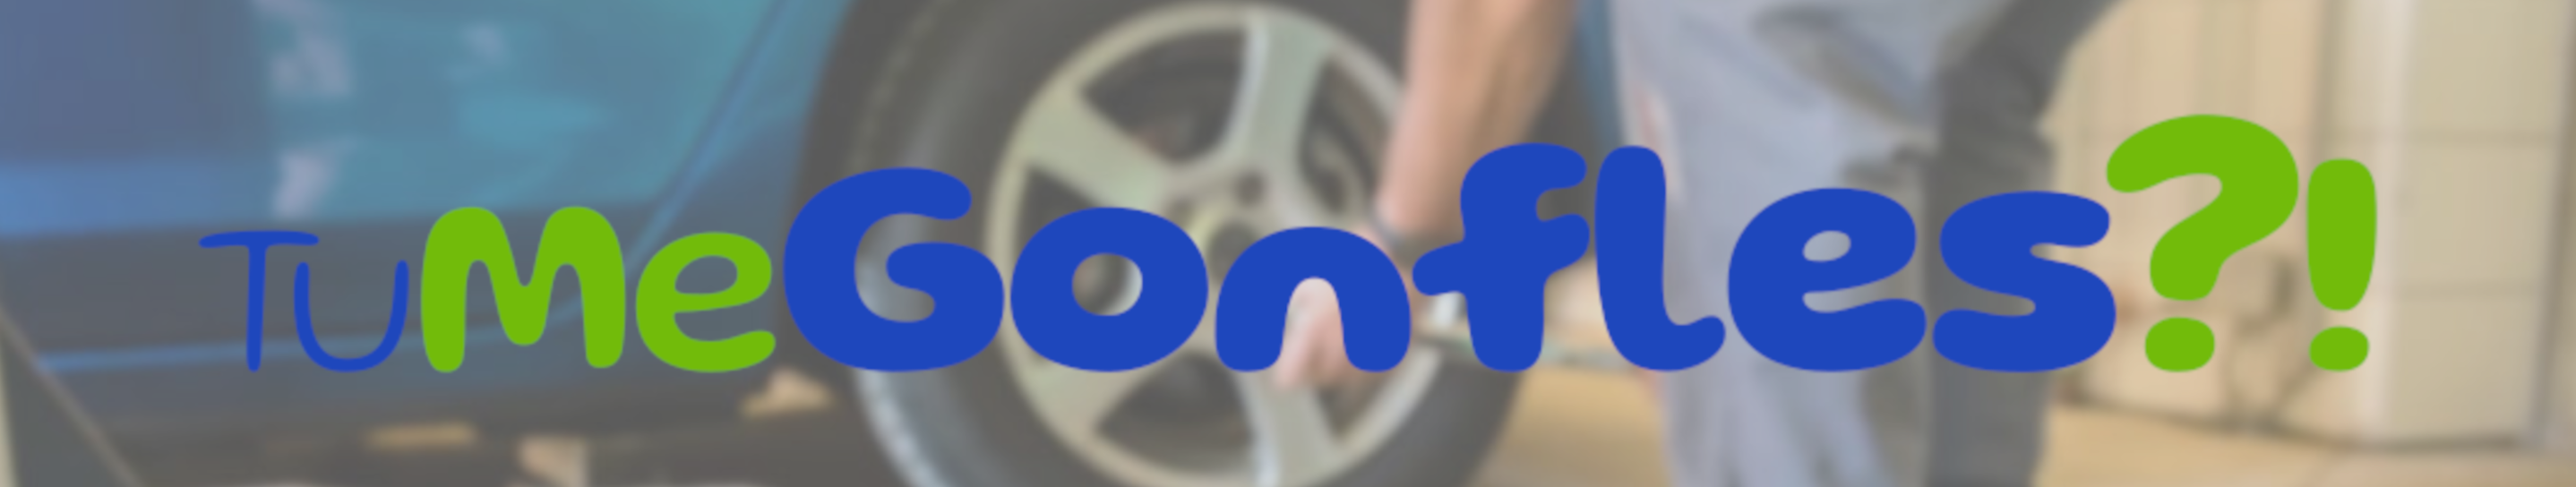
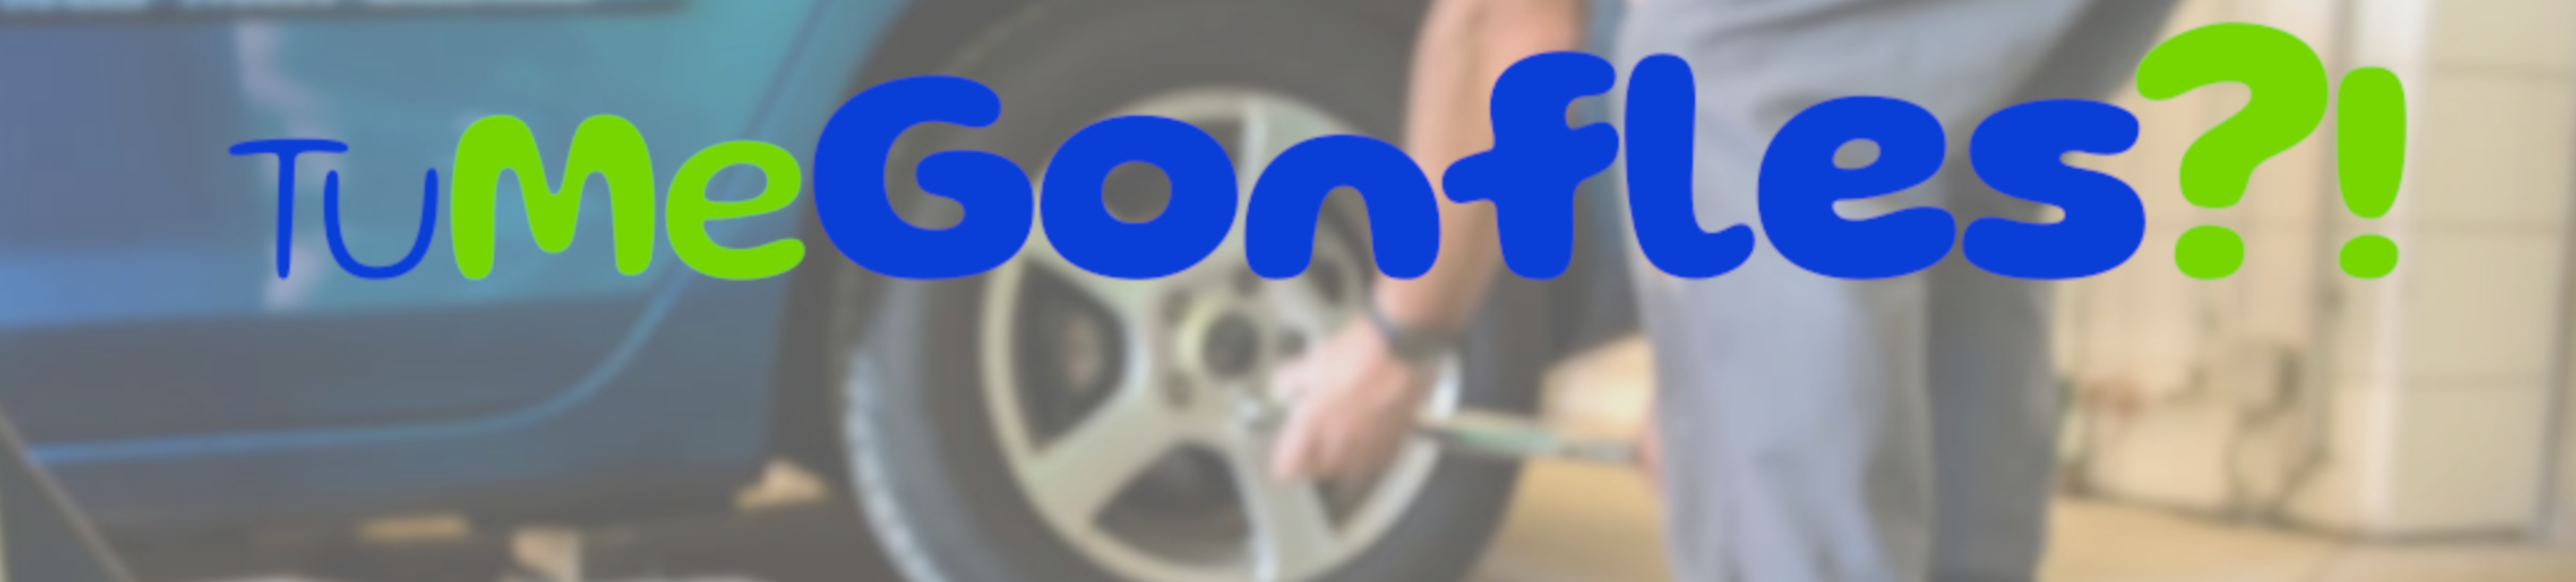
modif ban1, registerentreprise.blade et welcome.blade

diff --git a/resources/views/welcome.blade.php b/resources/views/welcome.blade.php
@@ -5,14 +5,17 @@
 
 @section('content')
 
+
 <img class="banniere" src="images/ban1.png"></img>
+<h5 class="accroch">Ne vous préoccupez plus de vos pneus, TuMeGonfles est là pour vous !</h5>
+<div style="text-align:center"><a href=""><button  type="button" class="button">Entreprises, inscrivez-vous !</button></a></div>
 <div class="container">
 
 </div>
 <br>
 
 <div class="main">
-    <h5 class="accroch">Ne vous préoccupez plus de vos pneus, TuMeGonfles est là pour vous !</h5>
+ 
 
 
 
@@ -30,8 +33,8 @@
             <h4 class="til">Pourquoi TuMeGonfles ?</h4>
             <p class="para">TuMeGonfles?! est un prestataire de service pour entreprise, celle-ci permet de faire une vérification rapide de l’état des pneus et des balais essuie-glaces des véhicules de vos employés. Et permet à vos employés de faire des économies ! </p>
             <div class="d-grid gap-2 d-md-flex justify-content-md-center">
-                <a href="commentfonctionne"><button id="btn1" type="button" class="container btn text-nowrap ">Comment fonctionne le site ?</button></a>
-                <a href=""><button id="btn2" type="button" class="btn ">Entreprises, inscrivez-vous !</button></a>
+                <a href="commentfonctionne"><button  type="button" class="button">Comment fonctionne TuMeGonfles ?</button></a>
+              
             </div>
 
         </div>
@@ -39,10 +42,11 @@
     </div>
 </div>
 <!-- <div class="d-flex justify-content-center" style="display: inline-block;"> -->
-<div id="ensemb" class="d-flex flex-row justify-content-between mx-5 px-5">
+<div id="ensemb" class="d-flex flex-row justify-content-between mx-5 px-5 mb-4">
     <div class="d-flex flex-column justify-content-center">
-        <h4 class="til  ">Pourquoi vérifiez la pression des ses pneus est important ?</h4>
-        <a href="pressionpneu"><button id="btn3" type=" button" class="container btn text-nowrap mt-4 ">Cliquez ici pour en savoir PLUS !</button></a>
+        <h4  style="text-align:center" class="til  ">Pourquoi vérifiez la pression des ses pneus est important ?</h4>
+        <div style="text-align:center">
+        <a href="pressionpneu"><button  type=" button" class="button">Cliquez ici pour en savoir PLUS !</button></a></div>
     </div>
     <div id="gauche" class="col-sm-4">
         <img class="image2" width="400" height="298" src="images/pneuPlat.jpg" />
@@ -64,20 +68,25 @@
 
 <style>
     .banniere {
+        z-index: -1;
         width: 100%;
         height: auto;
-        margin-top: -25px;
-        margin-bottom: -25px;
+        margin-top: 0;
+        margin-bottom: -200px;
 
 
     }
 
     .accroch {
-        color: #2B55CD;
+        z-index: 1;
+        color: #000000;
         text-align: center;
-        margin-top: 10px;
+        margin-top: 0;
+        margin-bottom:50px; 
         font-size: 36px;
         font-family: 'Gluten', cursive;
+       
+        
 
 
 
@@ -116,7 +125,7 @@
     }
 
     #ensemb {
-        margin-top: 100px;
+        margin-top: 50px;
     }
 
     #ensemb h4 {
@@ -166,7 +175,7 @@
         border-radius: 10px;
     }
 
-    .cerclefond {
+    /* .cerclefond {
         position: absolute;
         z-index: -1;
         width: 1923px;
@@ -190,5 +199,37 @@
         background: #FFFFFF;
 
 
-    }
+    } */
+
+.button{
+    /* margin-left:40%;
+    margin-right: auto; */
+    width: 500px;
+    height: 50px;
+    background-color: #2B55CD;
+    border-radius: 10px;
+    border-width: 0px;
+
+  
+
+    text-align: center;
+    font-family: 'Gluten';
+    font-style: normal;
+    font-weight: 700;
+    font-size: 24px;
+    line-height: 21px;
+    vertical-align: baseline;
+    padding-top: 15px; 
+    padding-bottom: 15px;
+
+    color: #FFFFFF;
+}
+
+.button:hover{
+    width: 500px;
+    height: 50px;
+    background-color: #81CC16;
+    color: #FFFFFF;
+}
+
 </style>

diff --git a/resources/views/registerentreprise.blade.php b/resources/views/registerentreprise.blade.php
@@ -20,7 +20,7 @@
         position: relative;
         margin-left: auto;
         margin-right: auto;
-        width: 800px;
+        width: 50%;
         height: auto;
         padding: 20px;
         
